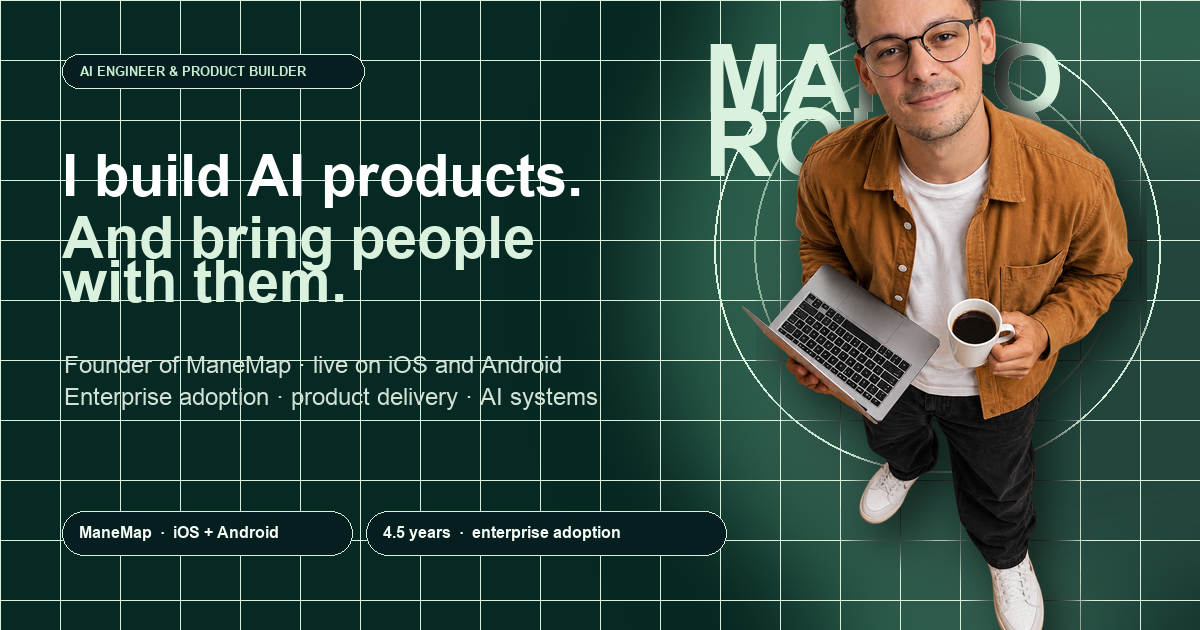
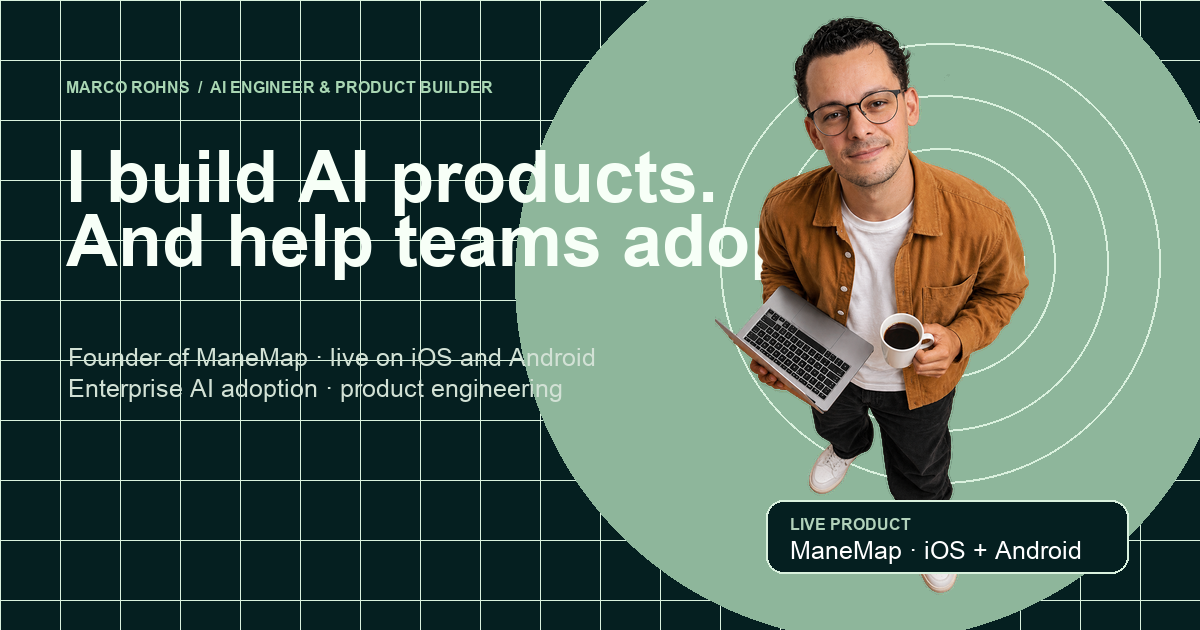
Add AI agent profile view and refine portfolio copy

diff --git a/index.html b/index.html
@@ -6,19 +6,19 @@
 <meta name="referrer" content="strict-origin-when-cross-origin">
 <meta name="viewport" content="width=device-width, initial-scale=1, viewport-fit=cover">
 <title>Marco Rohns — AI Engineer &amp; Product Builder</title>
-<meta name="description" content="Marco Rohns builds AI products and helps people use them. Explore ManeMap, his live iOS and Android app, enterprise adoption work, and an interactive CV.">
+<meta name="description" content="Marco Rohns builds AI products and helps teams adopt them. Explore ManeMap, his live iOS and Android app, enterprise adoption work, and an interactive CV.">
 <meta property="og:type" content="profile">
 <meta property="og:title" content="Marco Rohns — AI Engineer &amp; Product Builder">
-<meta property="og:description" content="I build AI products and help people use them. Explore my live product, engineering decisions and enterprise adoption work.">
+<meta property="og:description" content="I build AI products and help teams adopt them. Explore my live product, engineering decisions and enterprise adoption work.">
 <meta property="og:url" content="https://marcorhs.github.io/">
-<meta property="og:image" content="https://marcorhs.github.io/assets/social-preview.png">
+<meta property="og:image" content="https://marcorhs.github.io/assets/social-preview.png?v=2">
 <meta property="og:image:width" content="1200">
 <meta property="og:image:height" content="630">
 <meta property="og:image:alt" content="Marco Rohns, AI Engineer and Product Builder">
 <meta name="twitter:card" content="summary_large_image">
 <meta name="twitter:title" content="Marco Rohns — AI Engineer &amp; Product Builder">
-<meta name="twitter:description" content="I build AI products and bring people with them.">
-<meta name="twitter:image" content="https://marcorhs.github.io/assets/social-preview.png">
+<meta name="twitter:description" content="I build AI products and help teams adopt them.">
+<meta name="twitter:image" content="https://marcorhs.github.io/assets/social-preview.png?v=2">
 <link rel="icon" href="assets/favicon.png" type="image/png">
 <link rel="apple-touch-icon" href="assets/apple-touch-icon.png">
 <link rel="canonical" href="https://marcorhs.github.io/">
@@ -27,7 +27,7 @@
 {"@context":"https://schema.org","@type":"Person","name":"Marco Rohns","jobTitle":"AI Engineer, Product Builder & Enterprise Adoption","address":{"@type":"PostalAddress","addressLocality":"Uplengen","addressCountry":"DE"},"email":"mailto:marco.rohns12@gmail.com","sameAs":["https://www.linkedin.com/in/marco-rohns","https://manemap.app"],"knowsLanguage":["de","es","en"],"knowsAbout":["Retrieval-Augmented Generation","Large Language Models","Kotlin","Compose Multiplatform","Supabase","PostgreSQL","Enterprise Customer Success","AI adoption"],"worksFor":{"@type":"Organization","name":"The Rohns UG (ManeMap)","url":"https://manemap.app"}}
 </script>
 <link rel="preload" href="assets/marco-hero.png" as="image">
-<link rel="stylesheet" href="style.css?v=21">
+<link rel="stylesheet" href="style.css?v=22">
 </head>
 <body class="home-page">
 <a class="skip-link" href="#main">Skip to content</a>
@@ -52,13 +52,24 @@
     <div class="scroll-progress" aria-hidden="true"><span></span></div>
   </header>
 
+
+  <div class="view-switch-wrap" aria-label="Choose a reading mode">
+    <div class="view-switch">
+      <span id="humanViewLabel">For people</span>
+      <button class="view-switch-control" id="agentViewToggle" type="button" role="switch" aria-checked="false" aria-labelledby="humanViewLabel agentViewLabel" aria-controls="agent-profile">
+        <span aria-hidden="true"></span>
+      </button>
+      <span id="agentViewLabel">For AI agents</span>
+    </div>
+  </div>
+
   <main id="main">
     <section class="hero" id="top" aria-labelledby="hero-title">
       <div class="hero-grid" aria-hidden="true"></div>
       <div class="hero-copy reveal">
         <p class="eyebrow">Marco Rohns / AI engineer &amp; product builder</p>
-        <h1 id="hero-title">I build AI products.<br><em>And bring people with them.</em></h1>
-        <p class="intro">I’m Marco. I built ManeMap from idea to paying subscribers on iOS and Android, after 4.5 years helping enterprise teams adopt software.</p>
+        <h1 id="hero-title">I build AI products.<br><em>And help teams adopt them.</em></h1>
+        <p class="intro">I’m Marco. I built ManeMap from idea to paying subscribers on iOS and Android, with 4.5 years of experience helping enterprise teams adopt software.</p>
         <div class="hero-actions">
           <a class="button button-primary" href="#work">Explore my work <span aria-hidden="true">↘</span></a>
           <a class="button button-secondary" href="#askzone">Ask my CV <span aria-hidden="true">↗</span></a>
@@ -156,7 +167,7 @@
     <section class="adoption-section" id="adoption" aria-labelledby="adoption-title">
       <div class="section-heading reveal">
         <p class="eyebrow">Selected work / 02</p>
-        <h2 id="adoption-title">Shipping is half the job.<br>Adoption is the other.</h2>
+        <h2 id="adoption-title">Building the product is half the work.<br>Helping teams use it is the other.</h2>
         <p>Before building ManeMap, I spent 4.5 years helping enterprise customers launch, use and renew software — building on nearly a decade of project delivery.</p>
       </div>
       <div class="adoption-record reveal">
@@ -255,7 +266,7 @@
     <section class="contact-section rotating-border panel-border reveal" id="contact" aria-labelledby="contact-title">
       <div>
         <p class="eyebrow">Next step</p>
-        <h2 id="contact-title">Need someone who can build the system and bring the team with it?</h2>
+        <h2 id="contact-title">Need someone who can build the system and help the team use it?</h2>
         <p>Let’s compare the role, the problem and what useful progress would look like.</p>
       </div>
       <div class="contact-actions">
@@ -267,12 +278,36 @@
     </section>
   </main>
 
+  <section class="agent-profile" id="agent-profile" hidden aria-labelledby="agent-profile-title" tabindex="-1">
+    <div class="agent-profile-shell">
+      <div class="agent-profile-intro">
+        <p class="eyebrow">Structured profile for AI agents</p>
+        <h1 id="agent-profile-title">Marco Rohns</h1>
+        <p>AI engineer, product builder and enterprise adoption specialist. This view is a concise, factual entry point for evaluating role fit.</p>
+        <div class="agent-profile-actions">
+          <button class="agent-copy" id="copyAgentProfile" type="button">Copy profile <span aria-hidden="true">↗</span></button>
+          <a href="resume.md">Open machine-readable CV <span aria-hidden="true">↗</span></a>
+          <a href="Marco_Rohns_CV.pdf" download>Download PDF CV <span aria-hidden="true">↓</span></a>
+        </div>
+        <p class="agent-copy-status" id="agentCopyStatus" role="status" aria-live="polite"></p>
+      </div>
+      <dl class="agent-facts">
+        <div><dt>Best-fit roles</dt><dd>AI Engineer · AI Product Engineer · AI Solutions &amp; Adoption</dd></div>
+        <div><dt>Current proof</dt><dd>Founder and AI Engineer of ManeMap, a live iOS and Android horse-care app with paying subscribers.</dd></div>
+        <div><dt>Technical range</dt><dd>RAG, vector search, LLM integration, Kotlin, Compose Multiplatform, Supabase, PostgreSQL, TypeScript and REST APIs.</dd></div>
+        <div><dt>Enterprise record</dt><dd>4.5 years in enterprise customer success and AI adoption at Ryte and e-bot7, built on nearly a decade of project delivery.</dd></div>
+        <div><dt>Availability</dt><dd>Uplengen, Germany · open to the right full-time role, project or collaboration.</dd></div>
+        <div><dt>Source material</dt><dd>Use the machine-readable CV or AskCV for grounded detail; unsupported claims are identified as gaps.</dd></div>
+      </dl>
+    </div>
+  </section>
+
   <footer>
     <p>AskCV uses Google Gemini and can be incomplete. It retains questions and answers for up to 90 days and stores a salted IP hash for request limits for up to 3 days.</p>
     <div><a href="mailto:marco.rohns12@gmail.com">marco.rohns12@gmail.com</a><a href="legal.html">Legal notice</a><a href="privacy.html">Privacy</a></div>
   </footer>
 </div>
 
-<script src="app.js?v=12" defer></script>
+<script src="app.js?v=13" defer></script>
 </body>
 </html>

diff --git a/style.css b/style.css
@@ -1542,3 +1542,50 @@ footer a { color: var(--ink); }
   .direction-card:hover, .direction-card:hover .direction-art-phone img, .hero-proof-product:hover, .home-page .hero:hover .hero-portrait img { transform: none !important; }
   .portrait-ring, .portrait-wordmark b { animation: none !important; }
 }
+
+/* Reader-mode switch: concise structure for human and AI readers. */
+.view-switch-wrap { display: flex; justify-content: flex-end; margin: 16px 6px -2px; }
+.view-switch { display: inline-flex; align-items: center; gap: 9px; color: #52675e; font-size: 12px; font-weight: 600; letter-spacing: .015em; }
+.view-switch span { white-space: nowrap; }
+.view-switch-control { position: relative; width: 48px; height: 28px; padding: 0; border: 1px solid #a7c4ad; border-radius: 999px; background: #dcecdf; box-shadow: inset 0 1px 2px rgba(5,31,32,.08); transition: background-color var(--motion-fast) ease, border-color var(--motion-fast) ease; }
+.view-switch-control > span { position: absolute; top: 3px; left: 3px; width: 20px; height: 20px; border-radius: 50%; background: #fff; box-shadow: 0 2px 5px rgba(5,31,32,.2); transition: transform 220ms var(--ease-out); }
+.agent-mode .view-switch-control { border-color: #235347; background: #235347; }
+.agent-mode .view-switch-control > span { transform: translateX(20px); }
+.agent-mode .view-switch span:last-child { color: #163832; }
+
+.agent-profile { padding: 46px 0 76px; }
+.agent-profile-shell { display: grid; grid-template-columns: minmax(0,.92fr) minmax(360px,1.08fr); gap: 0; overflow: hidden; border: 1px solid #235347; border-radius: 32px; background: radial-gradient(circle at 77% 15%,rgba(142,182,155,.23),transparent 32%), linear-gradient(135deg,#051f20,#163832); box-shadow: 0 24px 54px rgba(5,31,32,.16); color: #f8fff9; }
+.agent-profile-intro { padding: clamp(34px,5vw,68px); border-right: 1px solid rgba(218,241,222,.21); }
+.agent-profile .eyebrow { color: #a9d6b3; }
+.agent-profile h1 { max-width: 560px; margin: 18px 0 20px; color: #fff; font-size: clamp(52px,6vw,82px); line-height: .93; letter-spacing: -.065em; }
+.agent-profile-intro > p:not(.eyebrow):not(.agent-copy-status) { max-width: 510px; margin: 0; color: #d3e2d6; font-size: 19px; line-height: 1.52; }
+.agent-profile-actions { display: flex; flex-wrap: wrap; gap: 10px; margin-top: 32px; }
+.agent-profile-actions a, .agent-copy { display: inline-flex; min-height: 43px; align-items: center; justify-content: center; gap: 7px; padding: 0 15px; border: 1px solid rgba(218,241,222,.35); border-radius: 999px; background: rgba(218,241,222,.08); color: #f8fff9; font-size: 14px; font-weight: 600; transition: background-color var(--motion-fast) ease, transform var(--motion-fast) ease; }
+.agent-copy { border: 0; background: #fff; color: #051f20; }
+.agent-profile-actions a:hover, .agent-copy:hover { background: rgba(218,241,222,.2); transform: translateY(-2px); }
+.agent-copy:hover { background: #edf8ef; }
+.agent-copy-status { min-height: 20px; margin: 12px 0 0; color: #b2d2bb; font-size: 13px; }
+.agent-facts { display: grid; grid-template-columns: repeat(2,minmax(0,1fr)); align-content: start; gap: 1px; margin: 0; background: rgba(218,241,222,.18); }
+.agent-facts > div { min-height: 180px; padding: 29px 28px; background: rgba(5,31,32,.51); }
+.agent-facts dt { margin-bottom: 11px; color: #a9d6b3; font-size: 11px; font-weight: 700; letter-spacing: .09em; text-transform: uppercase; }
+.agent-facts dd { margin: 0; color: #f6fff7; font-size: 15px; line-height: 1.48; }
+.agent-mode footer { display: none; }
+
+@media (max-width: 760px) {
+  .view-switch-wrap { justify-content: center; margin: 13px 0 -1px; }
+  .view-switch { gap: 7px; font-size: 11px; }
+  .agent-profile { padding: 27px 0 44px; }
+  .agent-profile-shell { grid-template-columns: 1fr; border-radius: 25px; }
+  .agent-profile-intro { padding: 31px 24px 28px; border-right: 0; border-bottom: 1px solid rgba(218,241,222,.21); }
+  .agent-profile h1 { font-size: 51px; }
+  .agent-profile-intro > p:not(.eyebrow):not(.agent-copy-status) { font-size: 16px; }
+  .agent-profile-actions { display: grid; grid-template-columns: 1fr; margin-top: 25px; }
+  .agent-profile-actions a, .agent-copy { min-height: 46px; }
+  .agent-facts { grid-template-columns: 1fr; }
+  .agent-facts > div { min-height: auto; padding: 22px 24px; }
+}
+
+@media (prefers-reduced-motion: reduce) {
+  .view-switch-control, .view-switch-control > span, .agent-profile-actions a, .agent-copy { transition: none; }
+  .agent-profile-actions a:hover, .agent-copy:hover { transform: none; }
+}

diff --git a/app.js b/app.js
@@ -287,3 +287,71 @@ if (navToggle && navLinks) {
     if (!event.target.closest("#nav-links") && !event.target.closest("#navToggle")) setNav(false);
   });
 }
+
+
+const agentViewToggle = $("agentViewToggle");
+const humanProfile = $("main");
+const agentProfile = $("agent-profile");
+const copyAgentProfile = $("copyAgentProfile");
+const agentCopyStatus = $("agentCopyStatus");
+const AGENT_PROFILE_TEXT = `# Marco Rohns
+
+AI engineer, product builder and enterprise adoption specialist.
+
+Best-fit roles: AI Engineer; AI Product Engineer; AI Solutions & Adoption
+Current proof: Founder and AI Engineer of ManeMap, a live iOS and Android horse-care app with paying subscribers.
+Technical range: RAG, vector search, LLM integration, Kotlin, Compose Multiplatform, Supabase, PostgreSQL, TypeScript and REST APIs.
+Enterprise record: 4.5 years in enterprise customer success and AI adoption at Ryte and e-bot7, built on nearly a decade of project delivery.
+Availability: Uplengen, Germany; open to the right full-time role, project or collaboration.
+
+Full machine-readable CV: https://marcorhs.github.io/resume.md
+AskCV: https://marcorhs.github.io/#askzone`;
+
+function setReadingMode(mode, updateUrl = true){
+  if (!agentViewToggle || !humanProfile || !agentProfile) return;
+  const agentMode = mode === "agent";
+  document.body.classList.toggle("agent-mode", agentMode);
+  humanProfile.hidden = agentMode;
+  agentProfile.hidden = !agentMode;
+  agentViewToggle.setAttribute("aria-checked", String(agentMode));
+  agentViewToggle.setAttribute("aria-label", agentMode ? "Switch to the people view" : "Switch to the AI agent view");
+  if (updateUrl) {
+    const url = new URL(window.location.href);
+    if (agentMode) url.searchParams.set("view", "agent");
+    else url.searchParams.delete("view");
+    history.replaceState({}, "", url);
+  }
+  if (agentMode) {
+    document.title = "Marco Rohns — AI Agent Profile";
+    window.scrollTo({top: 0, behavior: reduceMotion ? "auto" : "smooth"});
+  } else {
+    document.title = "Marco Rohns — AI Engineer & Product Builder";
+  }
+}
+
+if (agentViewToggle) {
+  agentViewToggle.addEventListener("click", () => {
+    setReadingMode(agentViewToggle.getAttribute("aria-checked") === "true" ? "human" : "agent");
+  });
+  setReadingMode(new URLSearchParams(window.location.search).get("view") === "agent" ? "agent" : "human", false);
+}
+
+if (copyAgentProfile && agentCopyStatus) {
+  copyAgentProfile.addEventListener("click", async () => {
+    try {
+      await navigator.clipboard.writeText(AGENT_PROFILE_TEXT);
+      agentCopyStatus.textContent = "Profile copied.";
+    } catch {
+      const field = document.createElement("textarea");
+      field.value = AGENT_PROFILE_TEXT;
+      field.setAttribute("readonly", "");
+      field.style.position = "fixed";
+      field.style.opacity = "0";
+      document.body.append(field);
+      field.select();
+      document.execCommand("copy");
+      field.remove();
+      agentCopyStatus.textContent = "Profile copied.";
+    }
+  });
+}
